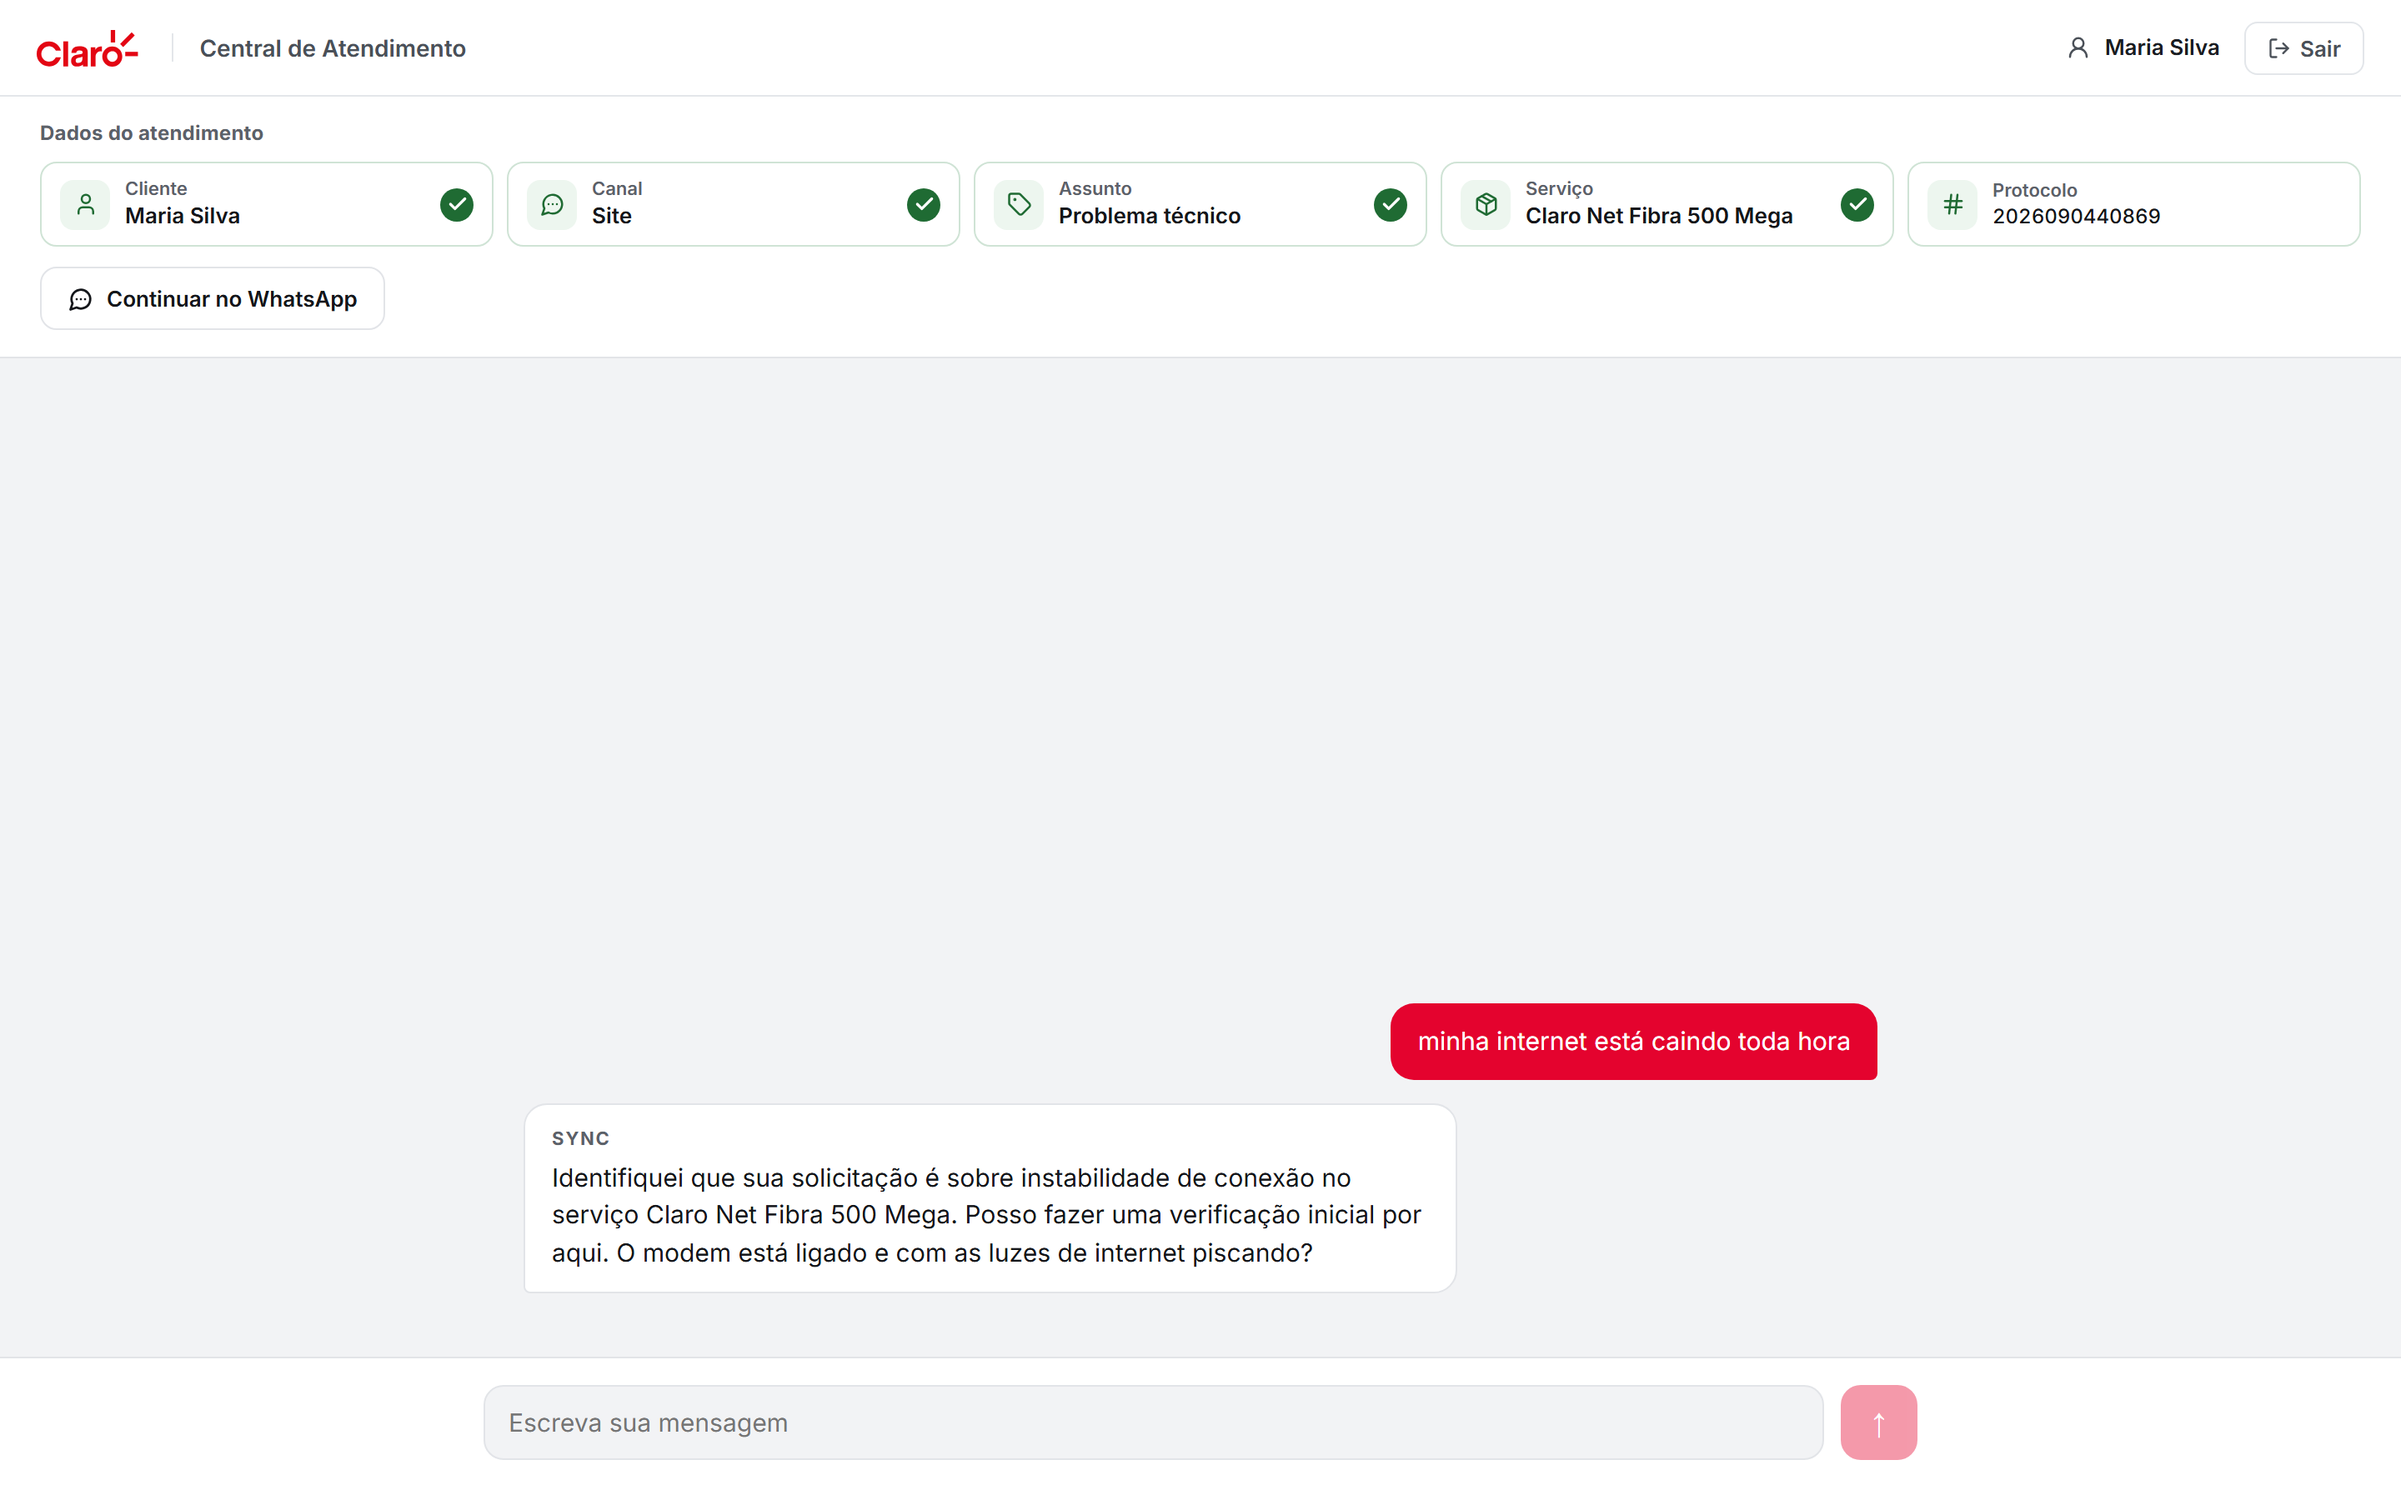
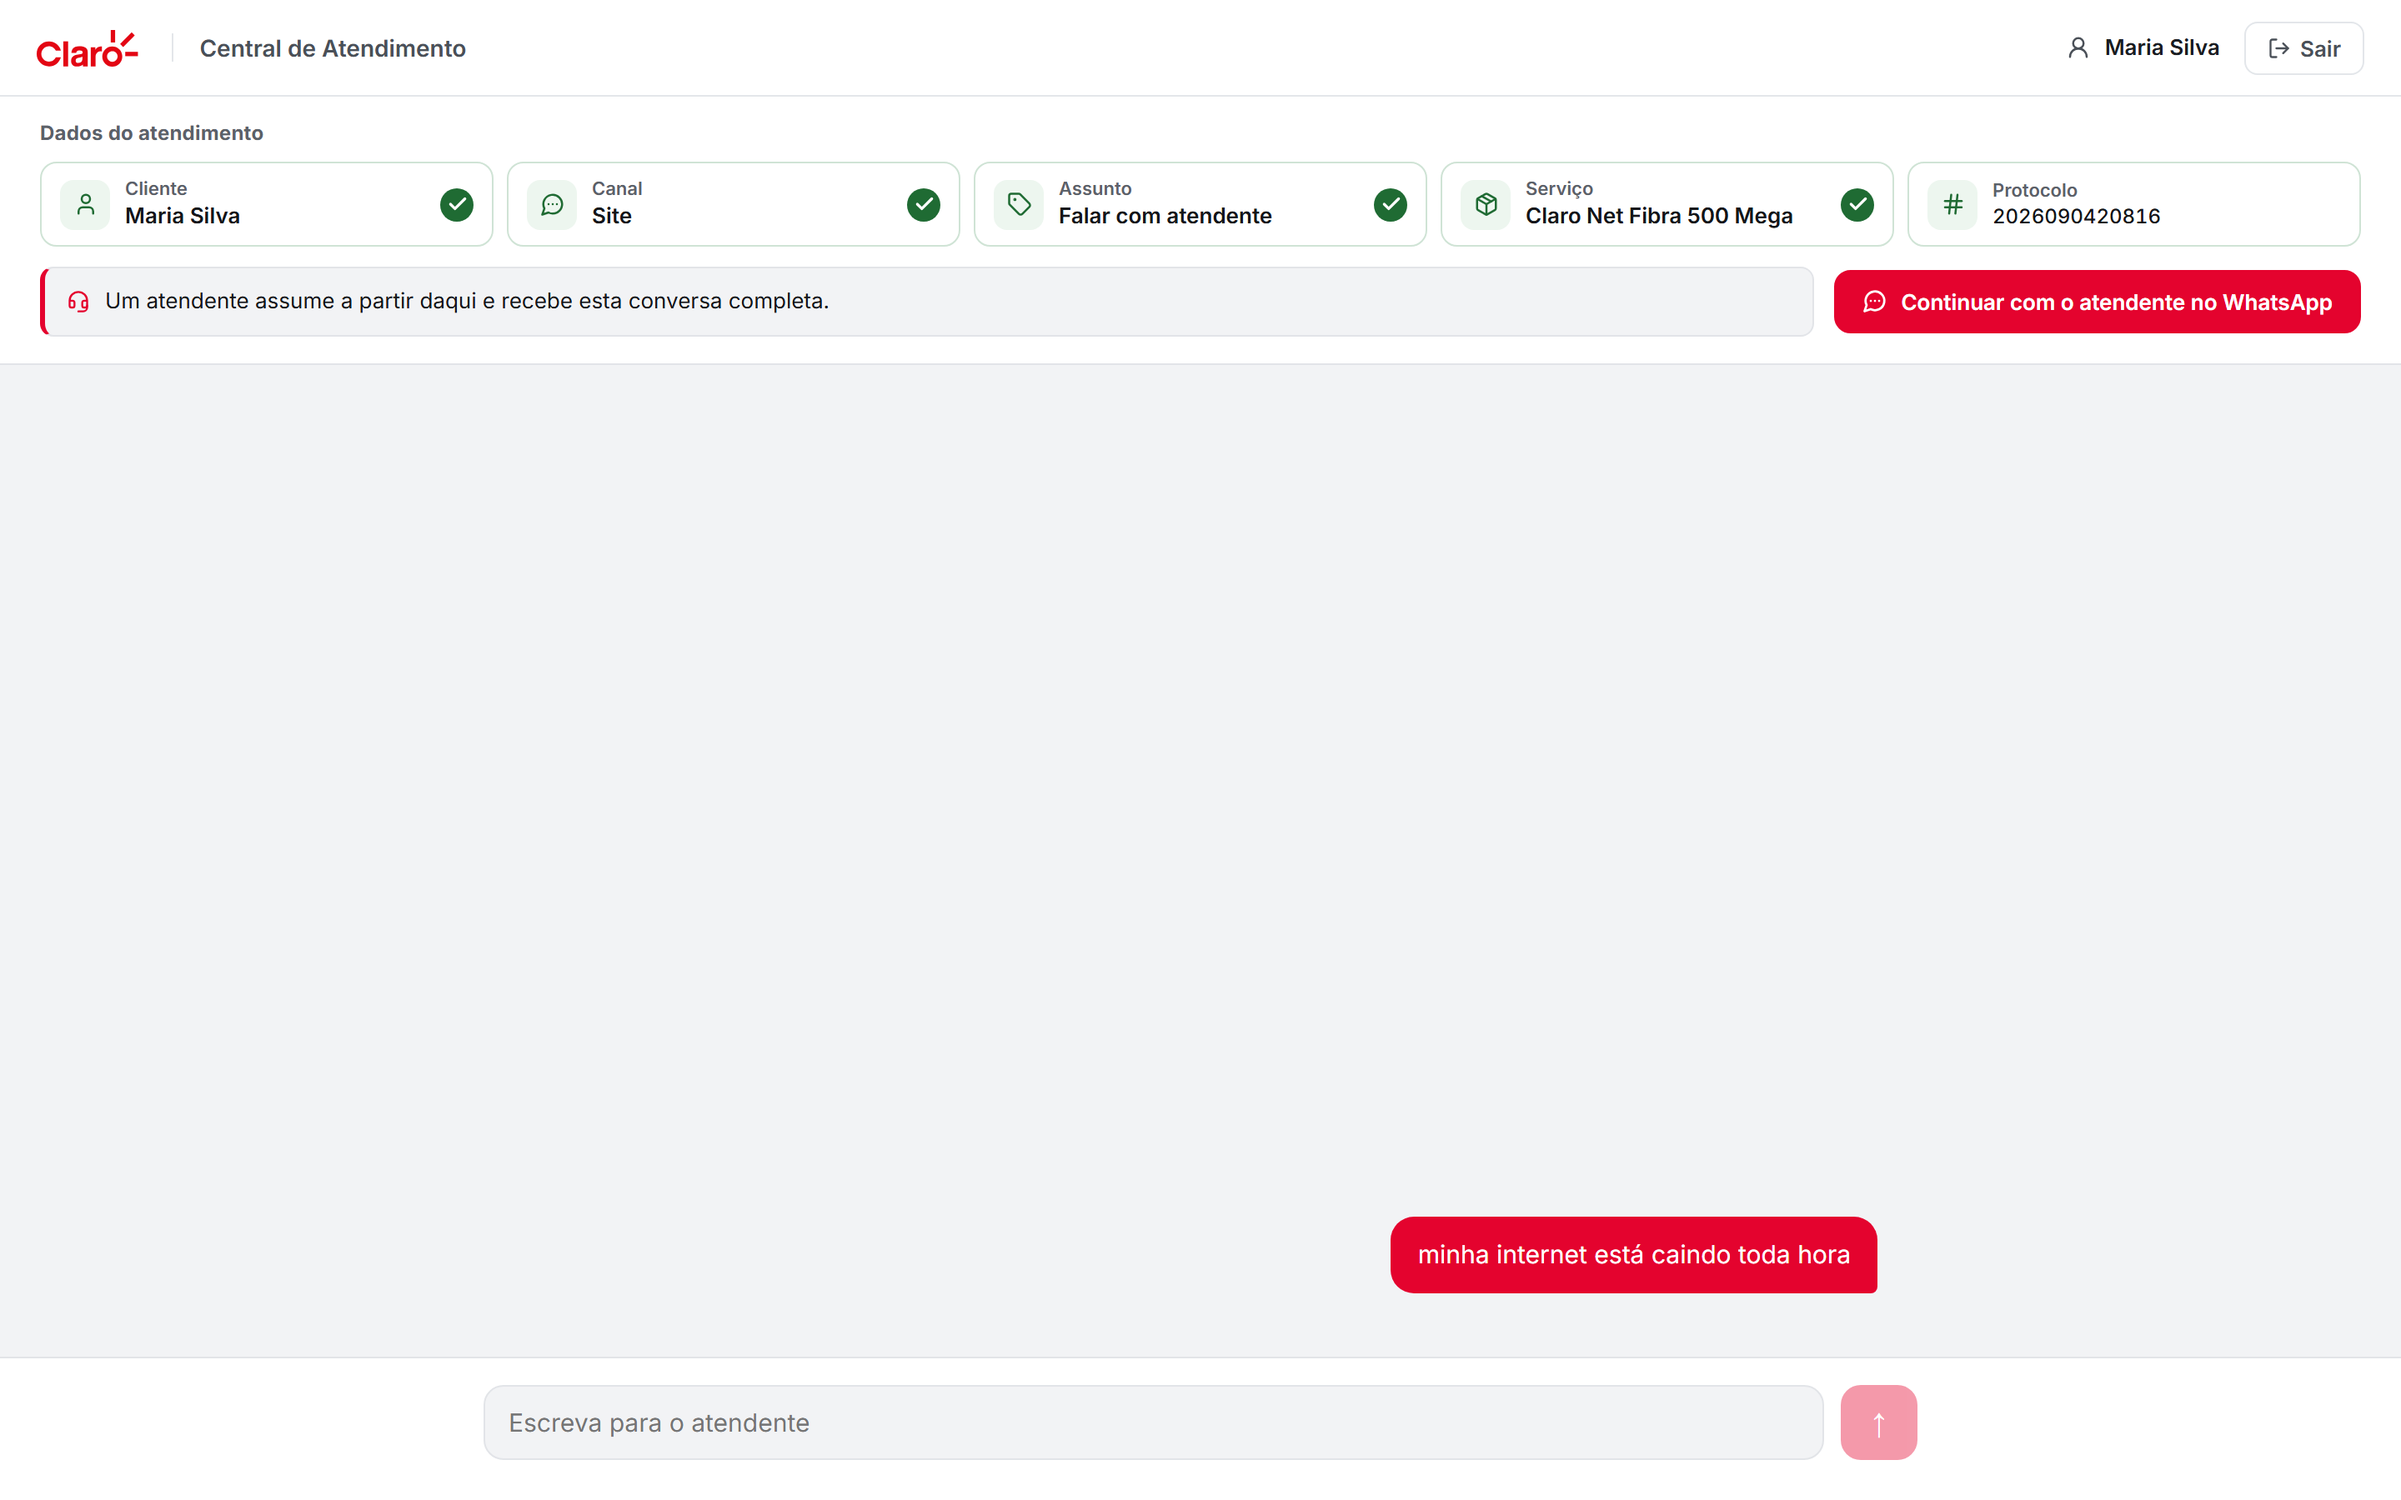
polish: the escalation note stopped looking like an error, thinner metrics, filters next to what they filter
The 'an agent takes over from here' line was red text on pink with a red
border, which reads as a system failure when what it says is good news:
someone picked the conversation up. It is now a neutral note with a
headset icon and a red left edge. Red on this screen is reserved for what
needs action.

Metrics strip: two stacked bands instead of two blocks side by side, since
'what needs action now' and 'what was delivered today' are different
questions and were competing for the same horizontal scan. Each band's
label sits in its own column, outside the cell area, so the dividers run
the full height instead of starting halfway down. Label and value now
share one line: seven large numbers took a third of the screen to say,
almost always, zero.

Filters moved out of the toolbar into their own bar directly above the
board. On the nav line, choosing a screen and narrowing a list carried the
same weight and the row was too long to read at a glance.

Cards: 5px radius instead of 8, tighter padding, the name truncates
instead of wrapping.

diff --git a/apps/web-admin/src/console.css b/apps/web-admin/src/console.css
@@ -195,41 +195,65 @@ button {
 
 /* ---------- metrics ---------- */
 
+/* Faixa de indicadores: linha fina, nao painel de numeros grandes.
+   Sao dois grupos empilhados porque respondem a perguntas diferentes: o que
+   exige acao agora e o que ja foi entregue. O rotulo de cada grupo fica numa
+   coluna propria, fora da area das celulas, para as divisorias correrem de cima
+   a baixo da faixa em vez de comecarem no meio dela.
+   Rotulo e valor dividem a mesma linha: sete numeros grandes empilhados
+   ocupavam um terco da tela para dizer, quase sempre, zero. */
 .pulse {
-  display: grid;
-  grid-template-columns: 4fr 3fr;
+  display: flex;
+  flex-direction: column;
   background: var(--panel);
   border-bottom: 1px solid var(--line);
   flex-shrink: 0;
 }
 
-/* Divisória mais forte entre os grupos que entre as células: separa duas
-   perguntas diferentes, "o que exige ação" e "o que já foi entregue". */
+.pulse__group {
+  display: grid;
+  grid-template-columns: 168px minmax(0, 1fr);
+  align-items: stretch;
+  min-height: 34px;
+}
+
 .pulse__group + .pulse__group {
-  border-left: 2px solid var(--line);
+  border-top: 1px solid var(--line);
 }
 
 .pulse__group-title {
   display: flex;
   align-items: center;
-  gap: 7px;
+  gap: 6px;
   margin: 0;
-  padding: 10px 20px 0;
-  font-size: var(--t-micro);
+  padding: 0 14px 0 22px;
+  font-size: 10px;
   font-weight: 700;
-  letter-spacing: 0.04em;
+  letter-spacing: 0.07em;
   text-transform: uppercase;
   color: var(--muted);
+  white-space: nowrap;
 }
 
+.pulse__group-title svg {
+  flex-shrink: 0;
+  opacity: 0.7;
+}
+
+/* Quatro colunas fixas nas duas faixas: a de baixo tem tres indicadores e o
+   quarto lugar fica vazio de proposito, para as divisorias das duas faixas
+   cairem no mesmo eixo. */
 .pulse__cells {
   display: grid;
-  grid-auto-flow: column;
-  grid-auto-columns: minmax(0, 1fr);
+  grid-template-columns: repeat(4, minmax(0, 1fr));
+  border-left: 1px solid var(--line);
 }
 
 .pulse__cell {
-  padding: 8px 20px 14px;
+  display: flex;
+  align-items: center;
+  gap: 7px;
+  padding: 7px 16px;
   min-width: 0;
 }
 
@@ -241,30 +265,36 @@ button {
   display: flex;
   align-items: center;
   gap: 6px;
-  font-size: var(--t-small);
+  min-width: 0;
+  font-size: 12px;
   font-weight: 500;
   color: var(--muted);
-  margin-bottom: 6px;
   white-space: nowrap;
   overflow: hidden;
+  text-overflow: ellipsis;
+}
+
+.pulse__label svg {
+  flex-shrink: 0;
+  opacity: 0.75;
 }
 
 .pulse__value {
-  display: block;
-  font-family: var(--font-display);
-  font-weight: 700;
-  font-size: var(--t-metric);
+  margin-left: auto;
+  font-family: var(--font-data);
+  font-variant-numeric: tabular-nums;
+  font-weight: 600;
+  font-size: 14px;
   line-height: 1;
-  letter-spacing: -0.03em;
+  letter-spacing: -0.01em;
+  white-space: nowrap;
 }
 
 .pulse__value small {
-  font-family: var(--font-ui);
-  font-size: var(--t-body);
+  font-size: 11px;
   font-weight: 600;
   color: var(--muted);
-  margin-left: 2px;
-  letter-spacing: 0;
+  margin-left: 1px;
 }
 
 .pulse__cell.is-alert .pulse__value {
@@ -299,20 +329,20 @@ button {
   padding: 0;
 }
 
-/* A divisoria so existe quando ha filtros do outro lado dela. Sem isso ficava
-   uma linha solta no fim da navegacao, apontando para nada. */
-.toolbar:has(.filters) .nav {
-  padding-right: 18px;
-  border-right: 1px solid var(--line);
-}
 
+
+/* Faixa propria, colada no que ela filtra. Antes vivia dentro da toolbar e
+   herdava o flex de la; agora precisa do proprio fundo e da propria borda. */
 .filters {
   display: flex;
   align-items: center;
-  gap: 18px;
-  flex: 1;
+  gap: 16px;
   min-width: 0;
   flex-wrap: wrap;
+  padding: 9px 22px;
+  background: var(--panel);
+  border-bottom: 1px solid var(--line);
+  flex-shrink: 0;
 }
 
 .filters__search {
@@ -504,7 +534,7 @@ button {
   background: var(--panel);
   border: 1px solid var(--line);
   border-left: 3px solid var(--line);
-  border-radius: 8px;
+  border-radius: 5px;
   overflow: hidden;
   transition:
     border-color 120ms ease,
@@ -519,7 +549,7 @@ button {
   text-align: left;
   background: none;
   border: none;
-  padding: 12px 13px 13px;
+  padding: 10px 12px 11px;
   color: inherit;
   font: inherit;
   cursor: pointer;
@@ -531,15 +561,15 @@ button {
    acha. Discreto resolve o ruido sem esconder a saida. */
 .card__expand {
   position: absolute;
-  top: 7px;
-  right: 7px;
+  top: 6px;
+  right: 6px;
   z-index: 1;
   display: grid;
   place-items: center;
-  width: 24px;
-  height: 24px;
+  width: 22px;
+  height: 22px;
   border: 1px solid var(--line);
-  border-radius: 6px;
+  border-radius: 4px;
   background: var(--panel);
   color: var(--ink-muted);
   opacity: 0.5;
@@ -598,11 +628,14 @@ button {
 .card__who {
   /* O icone de abrir flutua no canto. Sem esta folga um nome longo passava por
      baixo dele e as duas coisas se sobrepunham. */
-  padding-right: 26px;
+  padding-right: 24px;
   font-weight: 600;
-  font-size: var(--t-strong);
-  line-height: 1.3;
-  margin-bottom: 5px;
+  font-size: var(--t-body);
+  line-height: 1.25;
+  margin-bottom: 3px;
+  overflow: hidden;
+  text-overflow: ellipsis;
+  white-space: nowrap;
 }
 
 .card__who--unknown {
@@ -613,7 +646,7 @@ button {
 .card__meta {
   display: flex;
   align-items: center;
-  gap: 4px 11px;
+  gap: 3px 10px;
   font-size: var(--t-micro);
   color: var(--muted);
   flex-wrap: wrap;
@@ -640,9 +673,9 @@ button {
 }
 
 .card__last {
-  margin: 9px 0 0;
+  margin: 7px 0 0;
   font-size: 12px;
-  line-height: 1.5;
+  line-height: 1.45;
   color: var(--ink-2);
   display: -webkit-box;
   -webkit-line-clamp: 2;
@@ -657,8 +690,8 @@ button {
   display: flex;
   align-items: center;
   gap: 5px;
-  margin-top: 10px;
-  padding-top: 9px;
+  margin-top: 8px;
+  padding-top: 7px;
   border-top: 1px solid var(--line);
   font-size: 11px;
   font-weight: 600;
@@ -1203,8 +1236,17 @@ button {
     grid-template-columns: repeat(2, minmax(0, 1fr));
   }
 
-  .pulse {
-    grid-template-columns: repeat(3, minmax(0, 1fr));
+  .pulse__group {
+    grid-template-columns: 1fr;
+  }
+
+  .pulse__group-title {
+    padding: 10px 18px 0;
+  }
+
+  .pulse__cells {
+    grid-template-columns: repeat(2, minmax(0, 1fr));
+    border-left: none;
   }
 
   .pulse__cell {

diff --git a/apps/web-admin/src/App.tsx b/apps/web-admin/src/App.tsx
@@ -252,19 +252,22 @@ export function App() {
             <span className="nav__badge">{encerrados.length}</span>
           </button>
         </nav>
-
-        {listaDeConversa && (
-          <Filters
-            value={filtros}
-            onChange={setFiltros}
-            showing={visiveis.length}
-            total={base.length}
-            withStatus={aba === 'fila'}
-          />
-        )}
       </div>
 
       {mostrarPulse && <Pulse metrics={metricas} />}
+
+      {/* Os filtros desceram para junto do que eles filtram.
+          Na mesma linha da navegacao, escolher a tela e recortar a lista tinham
+          o mesmo peso visual e a linha ficava longa demais para ler de relance. */}
+      {listaDeConversa && (
+        <Filters
+          value={filtros}
+          onChange={setFiltros}
+          showing={visiveis.length}
+          total={base.length}
+          withStatus={aba === 'fila'}
+        />
+      )}
 
       <div className="workarea">
         {abaEfetiva === 'fila' && (

diff --git a/packages/chat-ui/src/chat-ui.css b/packages/chat-ui/src/chat-ui.css
@@ -350,12 +350,25 @@
   color: var(--ink-muted);
 }
 
+/* Informacao, nao erro.
+   Em vermelho com borda vermelha esta linha lia como falha do sistema, quando o
+   que ela diz e boa noticia: alguem assumiu. O vermelho da tela fica reservado
+   para o que pede acao. */
 .ctx__note--escalated {
-  background: #fff4f5;
-  border: 1px solid #f5c2ca;
-  color: var(--claro-deep);
-  border-radius: 10px;
+  display: flex;
+  align-items: center;
+  gap: 9px;
+  background: var(--surface, #f6f7f9);
+  border: 1px solid var(--line);
+  border-left: 3px solid var(--claro-red);
+  color: var(--ink-2);
+  border-radius: 8px;
   padding: 10px 13px;
+}
+
+.ctx__note--escalated svg {
+  flex-shrink: 0;
+  color: var(--claro-red);
 }
 
 .ctx__handoff {

diff --git a/packages/chat-ui/src/ContextRail.tsx b/packages/chat-ui/src/ContextRail.tsx
@@ -1,4 +1,4 @@
-import { Check, Hash, MessageCircleMore, Minus, Package, Tag, User } from 'lucide-react'
+import { Check, Hash, Headset, MessageCircleMore, Minus, Package, Tag, User } from 'lucide-react'
 import type { ComponentType } from 'react'
 import { CHANNEL_LABELS, type ConversationState, INTENT_LABELS } from './types.js'
 
@@ -113,6 +113,7 @@ export function ContextRail({ state, onHandoff, handoffBusy }: ContextRailProps)
       <div className="ctx__foot">
         {escalado && (
           <p className="ctx__note ctx__note--escalated">
+            <Headset size={14} strokeWidth={2} aria-hidden="true" />
             Um atendente assume a partir daqui e recebe esta conversa completa.
           </p>
         )}
